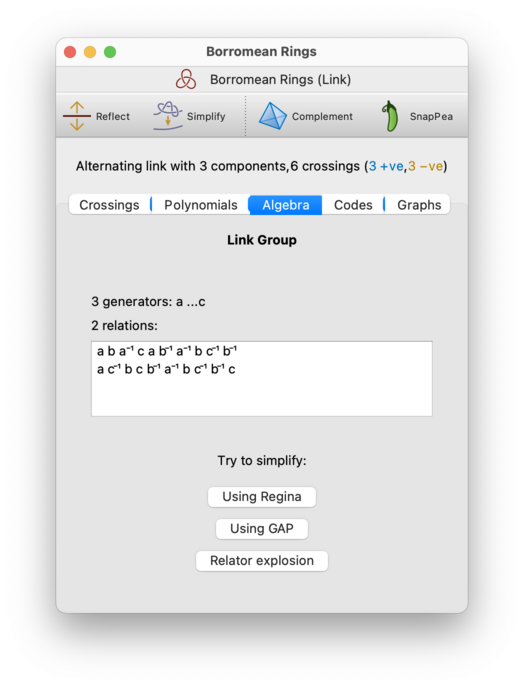
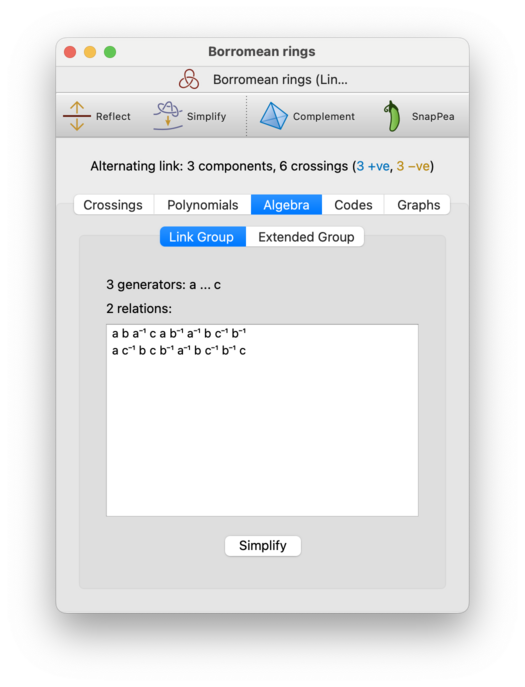
Finish document link groups in the GUI, plus several other changes that were needed to support this.

diff --git a/qtui/src/reginapref.cpp b/qtui/src/reginapref.cpp
@@ -344,9 +344,9 @@ ReginaPrefGeneral::ReginaPrefGeneral(QWidget* parent) : QWidget(parent) {
     layout->addWidget(cbWarnOnNonEmbedded);
 
     // Set up Graphviz options.
-    cbGraphvizLabels = new QCheckBox(tr("Labels on face pairing graphs"));
-    cbGraphvizLabels->setWhatsThis(tr("Labels each node in a "
-        "face pairing graph with the corresponding tetrahedron number."));
+    cbGraphvizLabels = new QCheckBox(tr("Labels on facet pairing graphs"));
+    cbGraphvizLabels->setWhatsThis(tr("Labels each node in a facet pairing "
+        "graph with the corresponding top-dimensional simplex number."));
     layout->addWidget(cbGraphvizLabels);
 
     // These combo box indices must be kept in sync with the switch statements
